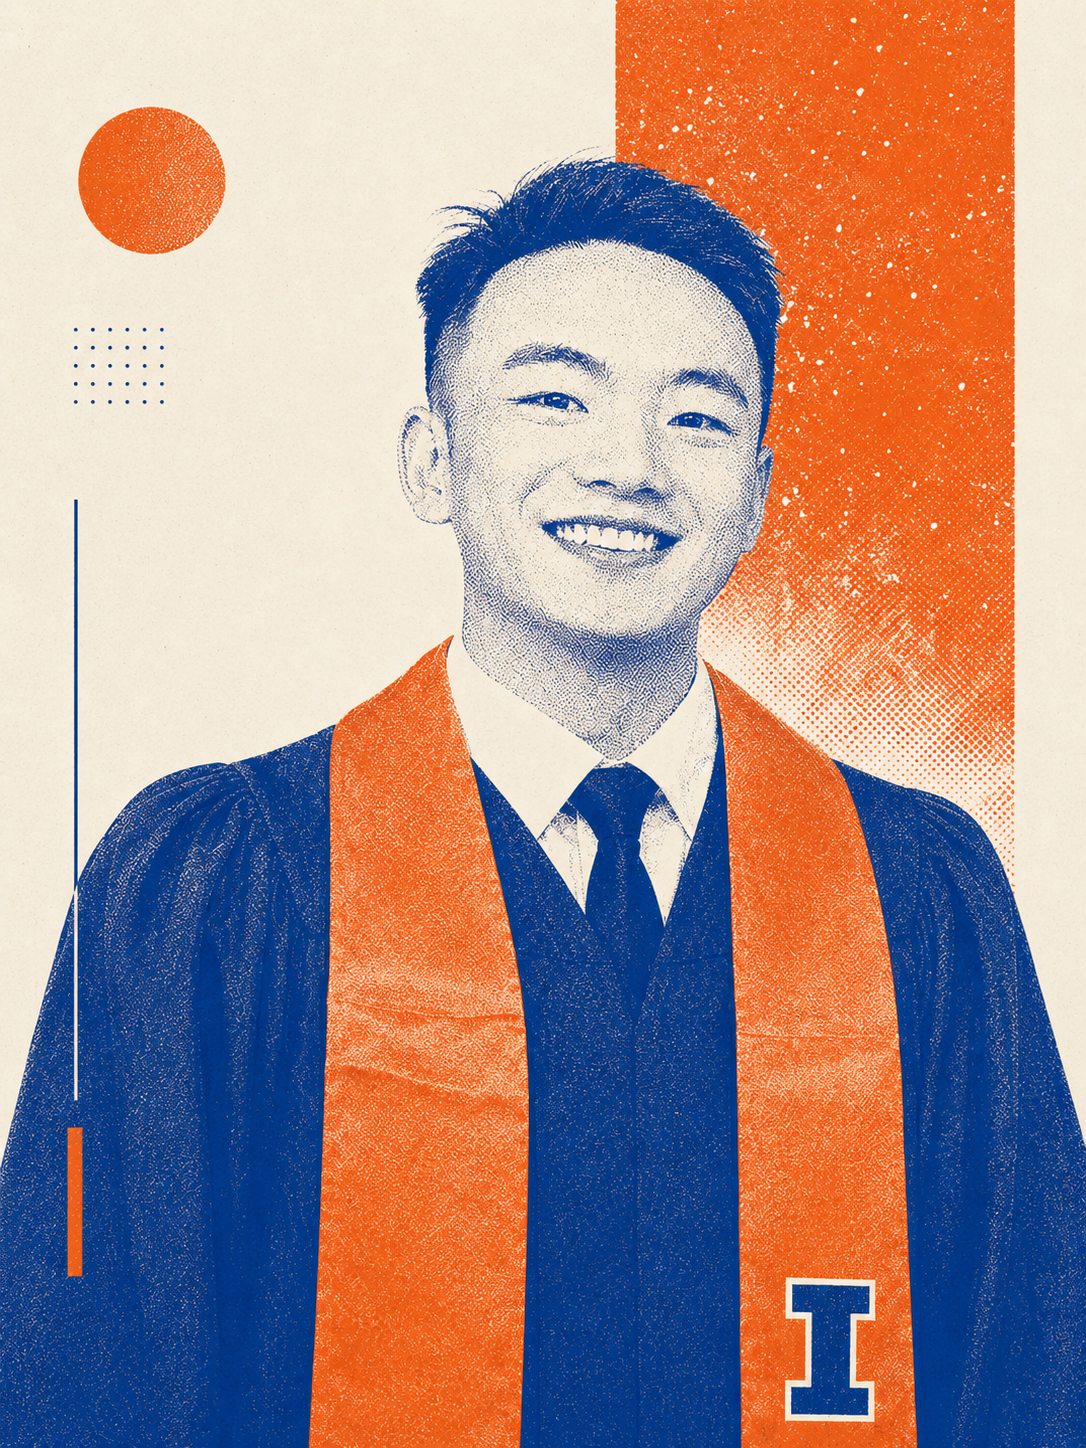
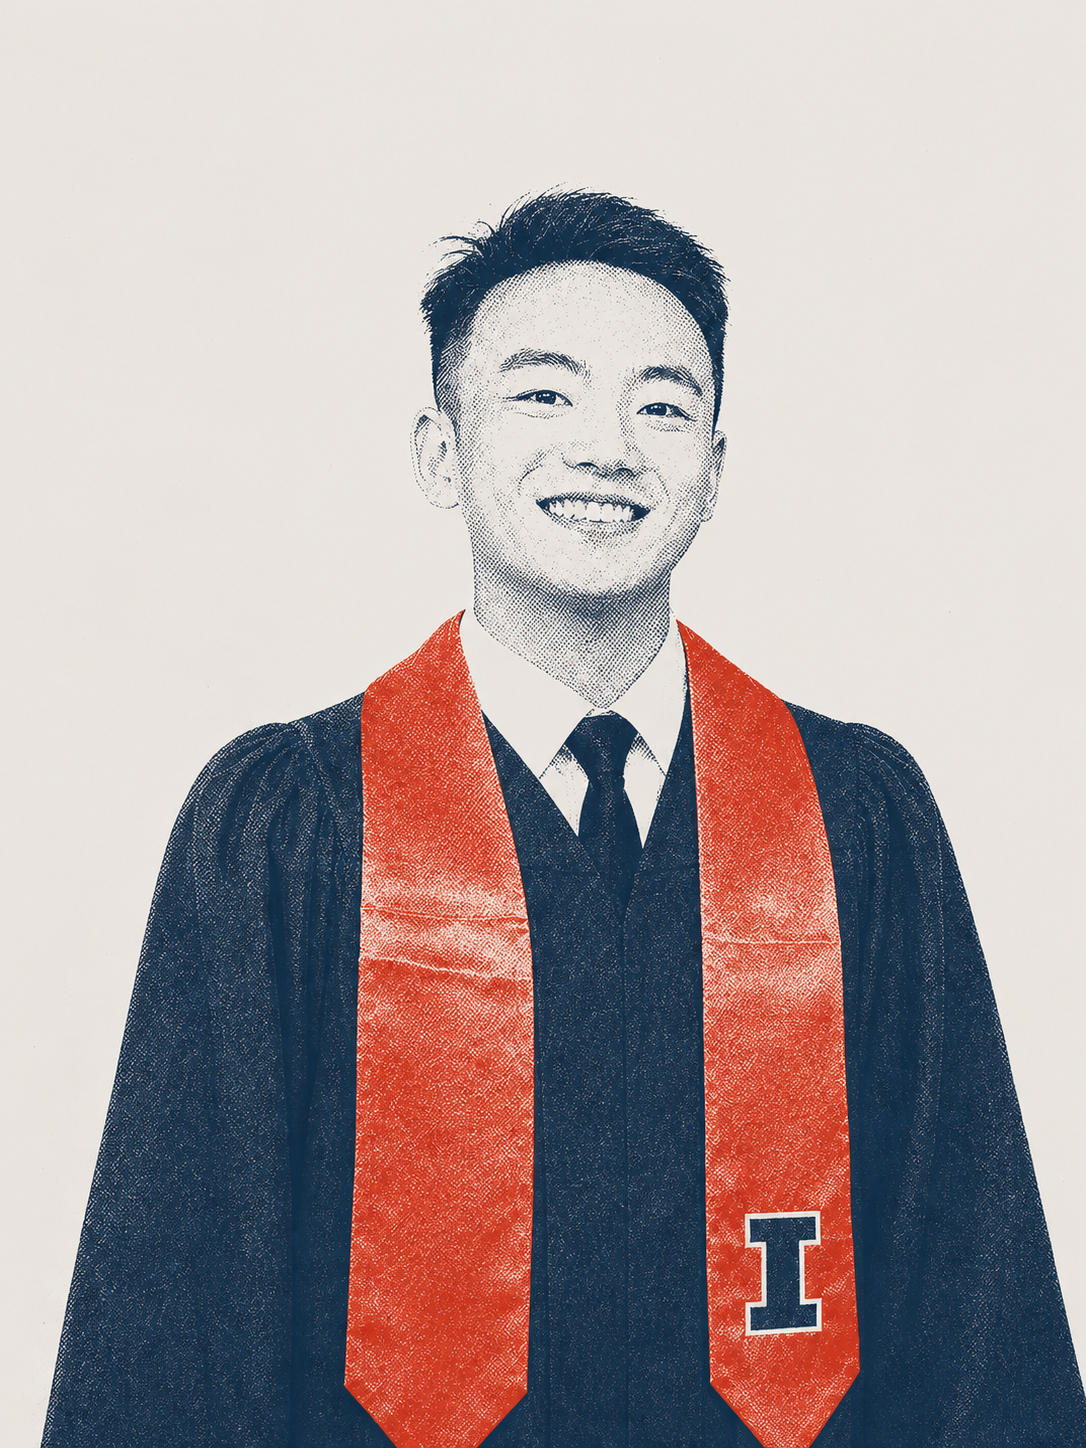
Refresh portrait demo image and spacing

diff --git a/portrait-placement-demo.html b/portrait-placement-demo.html
@@ -9,16 +9,14 @@
   <style>
     .demo-bar { width: min(var(--max), calc(100% - 3rem)); margin: 1.4rem auto 0; padding: .55rem 0; border-top: 1px solid var(--ink); border-bottom: 1px solid var(--line); color: var(--muted); font: 500 .59rem/1.35 var(--mono); letter-spacing: .08em; text-transform: uppercase; }
     .demo-bar strong { color: var(--signal); font-weight: 500; }
-    .hero--portrait-demo { grid-template-areas: "portrait copy profile"; grid-template-columns: minmax(210px, .84fr) minmax(0, 2fr) minmax(218px, .82fr); gap: clamp(1.5rem, 3.8vw, 4.4rem); min-height: 0; padding-top: 4.1rem; }
+    .hero--portrait-demo { grid-template-areas: "portrait copy profile"; grid-template-columns: minmax(210px, .84fr) minmax(0, 2fr) minmax(218px, .82fr); gap: clamp(2rem, 5vw, 5rem); min-height: 0; padding-top: 4.1rem; }
     .hero--portrait-demo .hero__portrait { grid-area: portrait; }
     .hero--portrait-demo .hero__copy { grid-area: copy; max-width: none; padding-top: .15rem; }
     .hero--portrait-demo .hero__copy h1 { white-space: normal; }
     .hero--portrait-demo .hero__aside { grid-area: profile; display: block; margin-top: 0; padding-top: .75rem; }
     .portrait-slot { aspect-ratio: 3 / 4; overflow: hidden; border: 1px solid var(--ink); background: var(--paper-deep); }
     .portrait-slot img { display: block; width: 100%; height: 100%; object-fit: contain; }
-    .portrait-caption { font: 500 .58rem/1.35 var(--mono); letter-spacing: .09em; text-transform: uppercase; }
-    .portrait-caption { display: flex; justify-content: space-between; gap: 1rem; color: var(--muted); }
-    .portrait-caption strong { color: var(--ink); font-weight: 500; }
+
     .hero--portrait-demo .hero__profile { padding-top: 0; border-top: 0; }
     .placement-note { max-width: 42rem; margin: 0; padding-top: 1rem; color: var(--muted); border-top: 1px solid var(--line); font-size: .73rem; line-height: 1.55; }
     .placement-note strong { color: var(--ink); font-weight: 600; }
@@ -46,7 +44,6 @@
     <section class="hero hero--portrait-demo layout-wide" id="placement">
       <div class="hero__portrait">
         <div class="portrait-slot"><img src="images/profile/felix-portrait.png" width="1086" height="1448" alt="Felix Liu in graduation attire"></div>
-        <p class="portrait-caption"><strong>Portrait</strong><span>3 : 4</span></p>
       </div>
 
       <div class="hero__copy">
